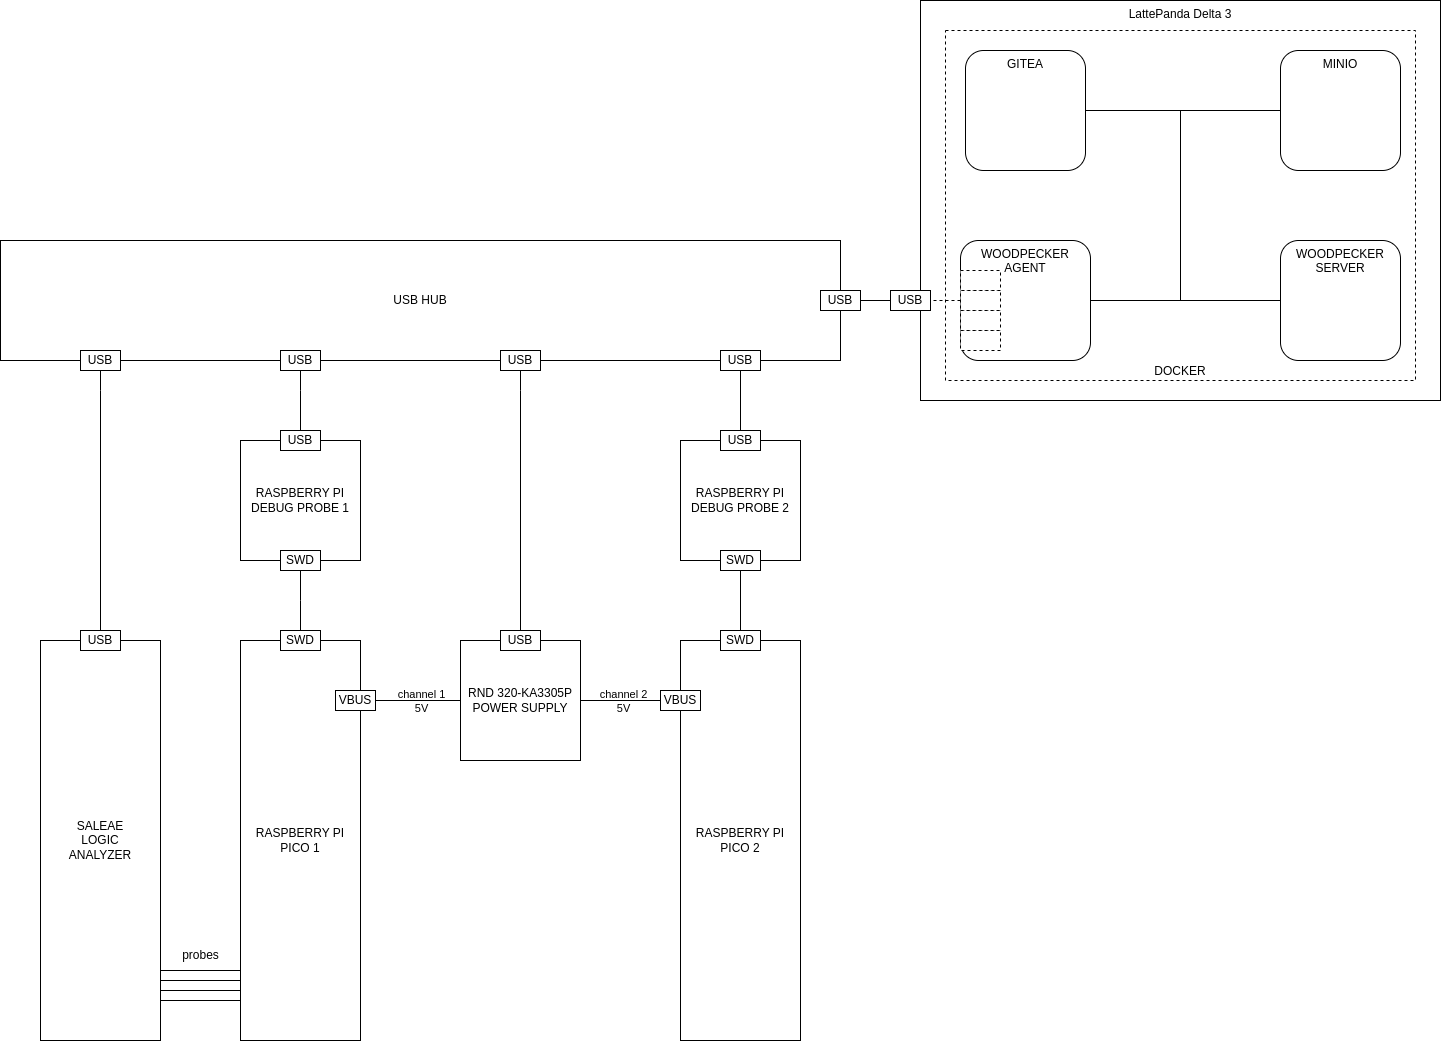
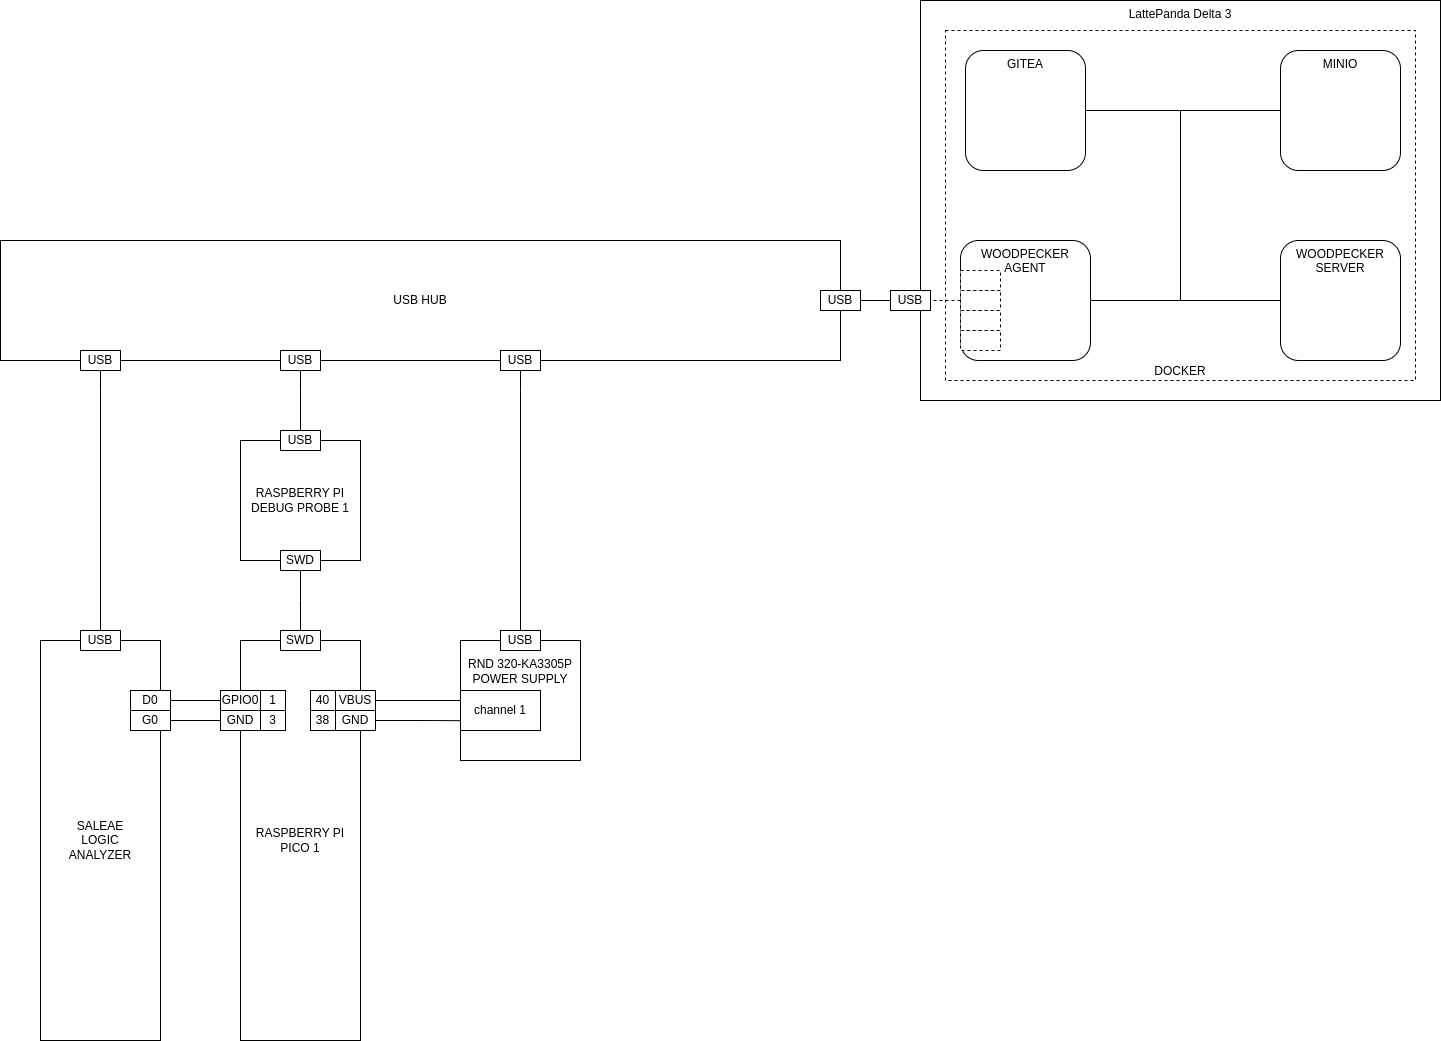
Remove the second rpi

diff --git a/README.md b/README.md
@@ -7,13 +7,13 @@ This README currently functions as a journal to track my progress and ideas.
 To create a simple CI setup which will assist me when learning Embedded Rust.
 
 The aim is to use a [LattePanda 3 Delta](https://www.lattepanda.com/lattepanda-3-delta)
-as the CI server and connect it to two Raspberry Pi Picos and a Saleae logic
+as the CI server and connect it to a Raspberry Pi Pico and a Saleae logic
 analyzer.
 
 It should be possible to:
 * build embedded Rust source code
-* flash it to either Raspberry Pi Pico
-* use Saleae's Automation API to run tests on the Picos
+* flash it to the Raspberry Pi Pico
+* use Saleae's Automation API to run tests on the Pico
 
 Note: I initially wanted to use a Raspberry Pi 4 but Saleae's Logic [does not
 have binaries for ARM](https://support.saleae.com/faq/technical-faq/can-logic-run-on-arm)
@@ -40,7 +40,7 @@ Minimal security to begin with, just to get the ball rolling.
 - Configure the LattePanda's IP address in `.env`. This variable is used
   by `docker-compose.yml`. For the instructions below, replace `$IP_ADDRESS`
   with the IP address.
-- Configure the debug probes' serial numbers in `.env`
+- Configure the debug probe serial number in `.env`
 - Start the MinIO container
   `docker compose up -d minio`
 - Access `http://$IP_ADDRESS:9001/` in your browser
